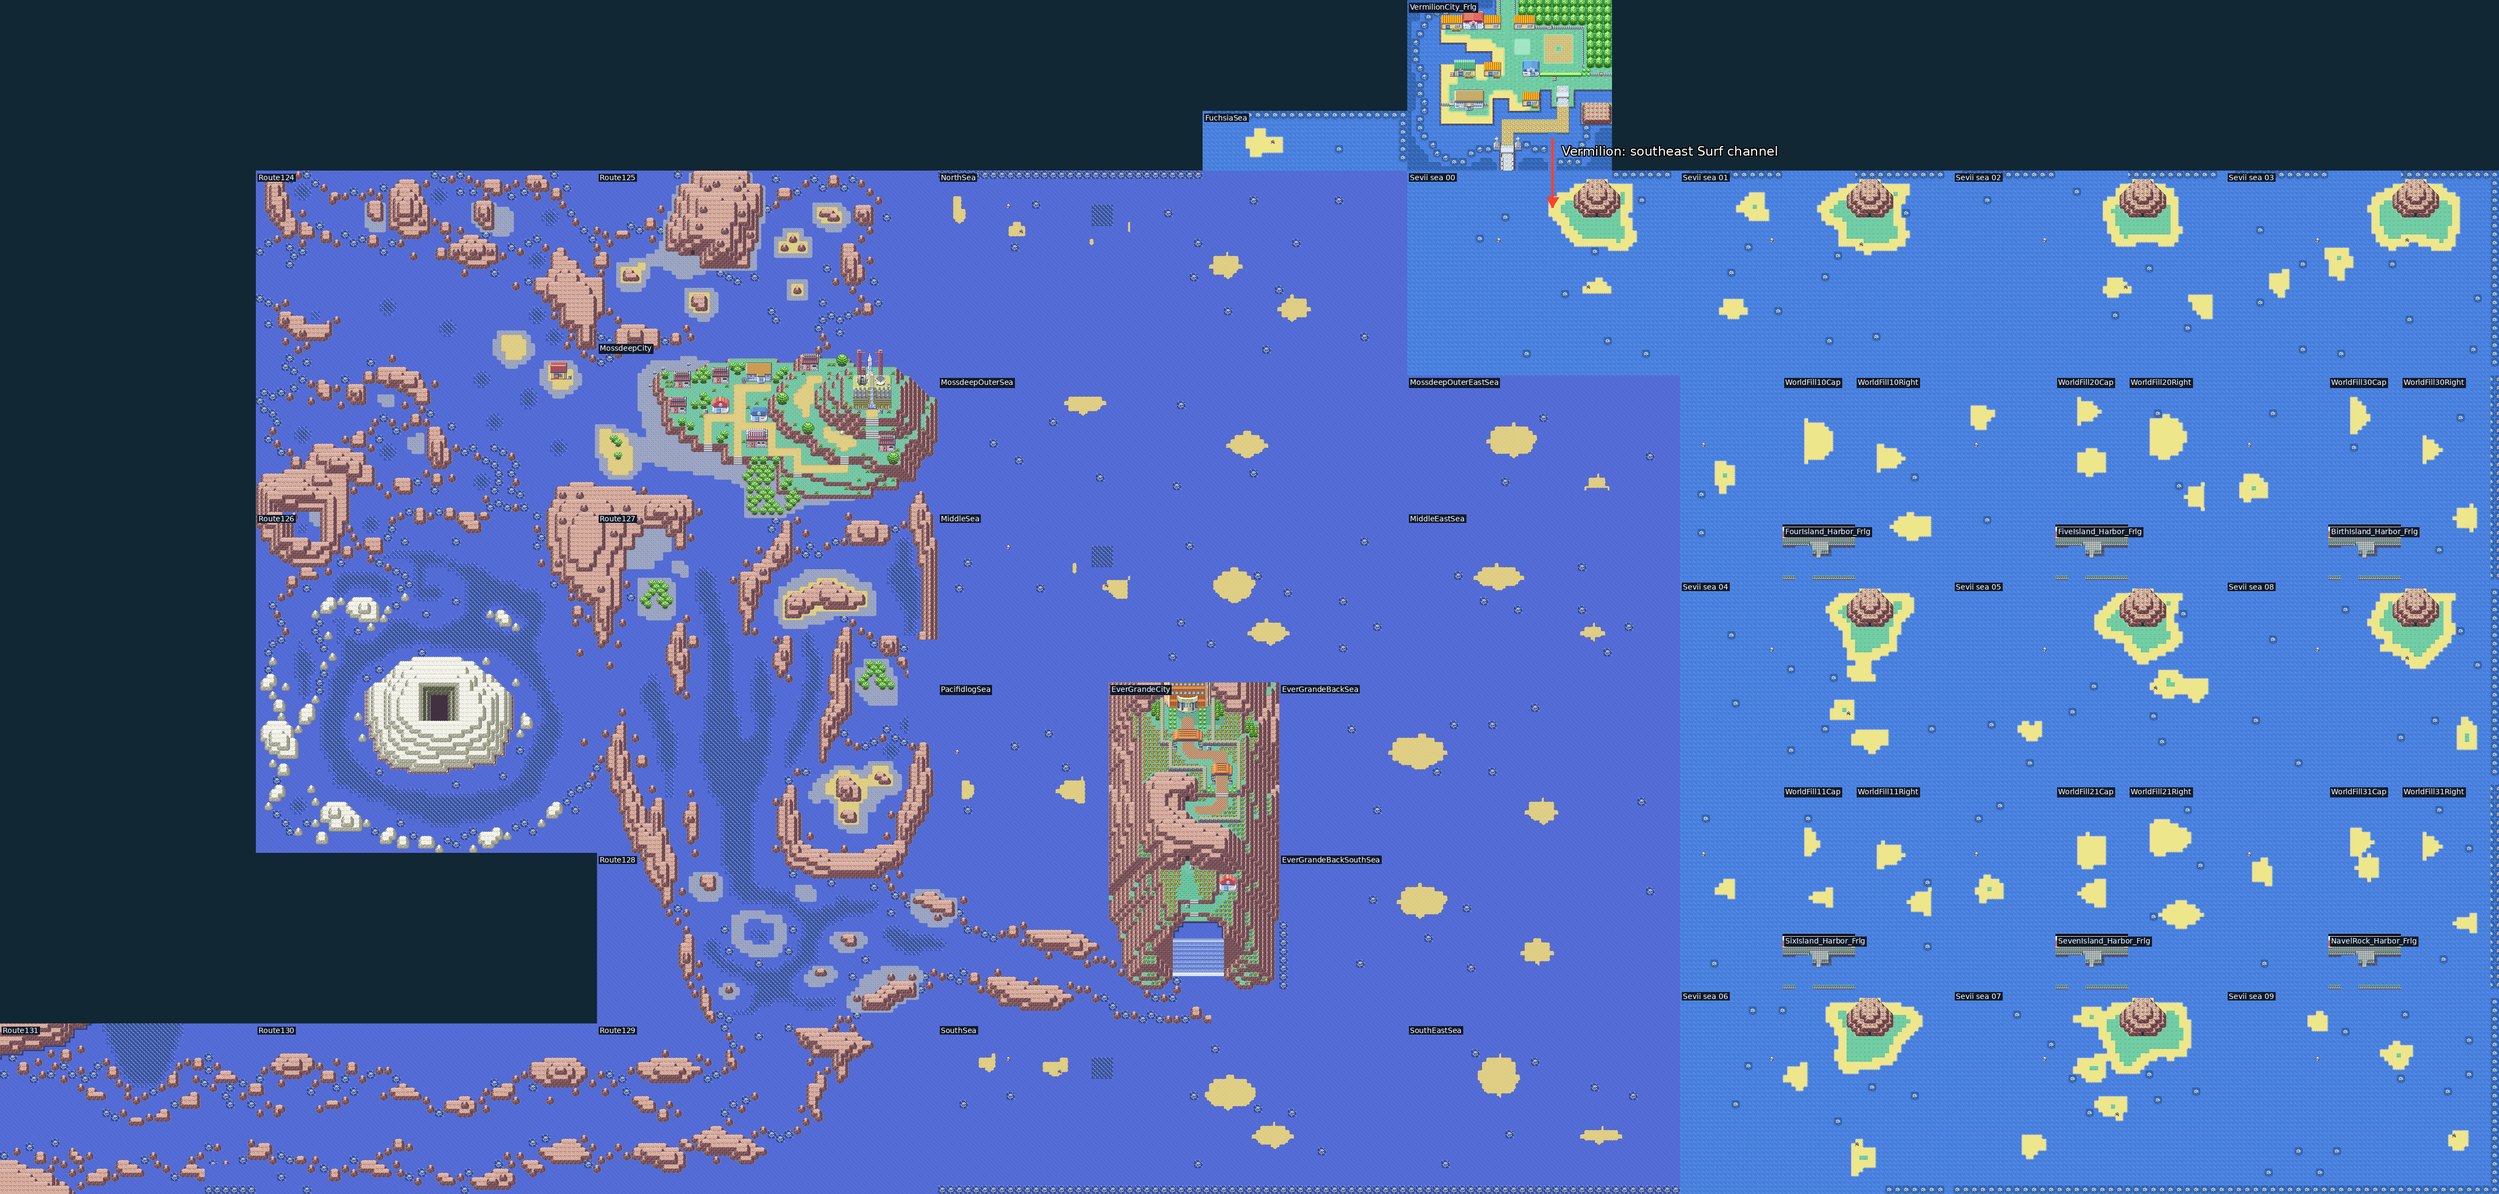
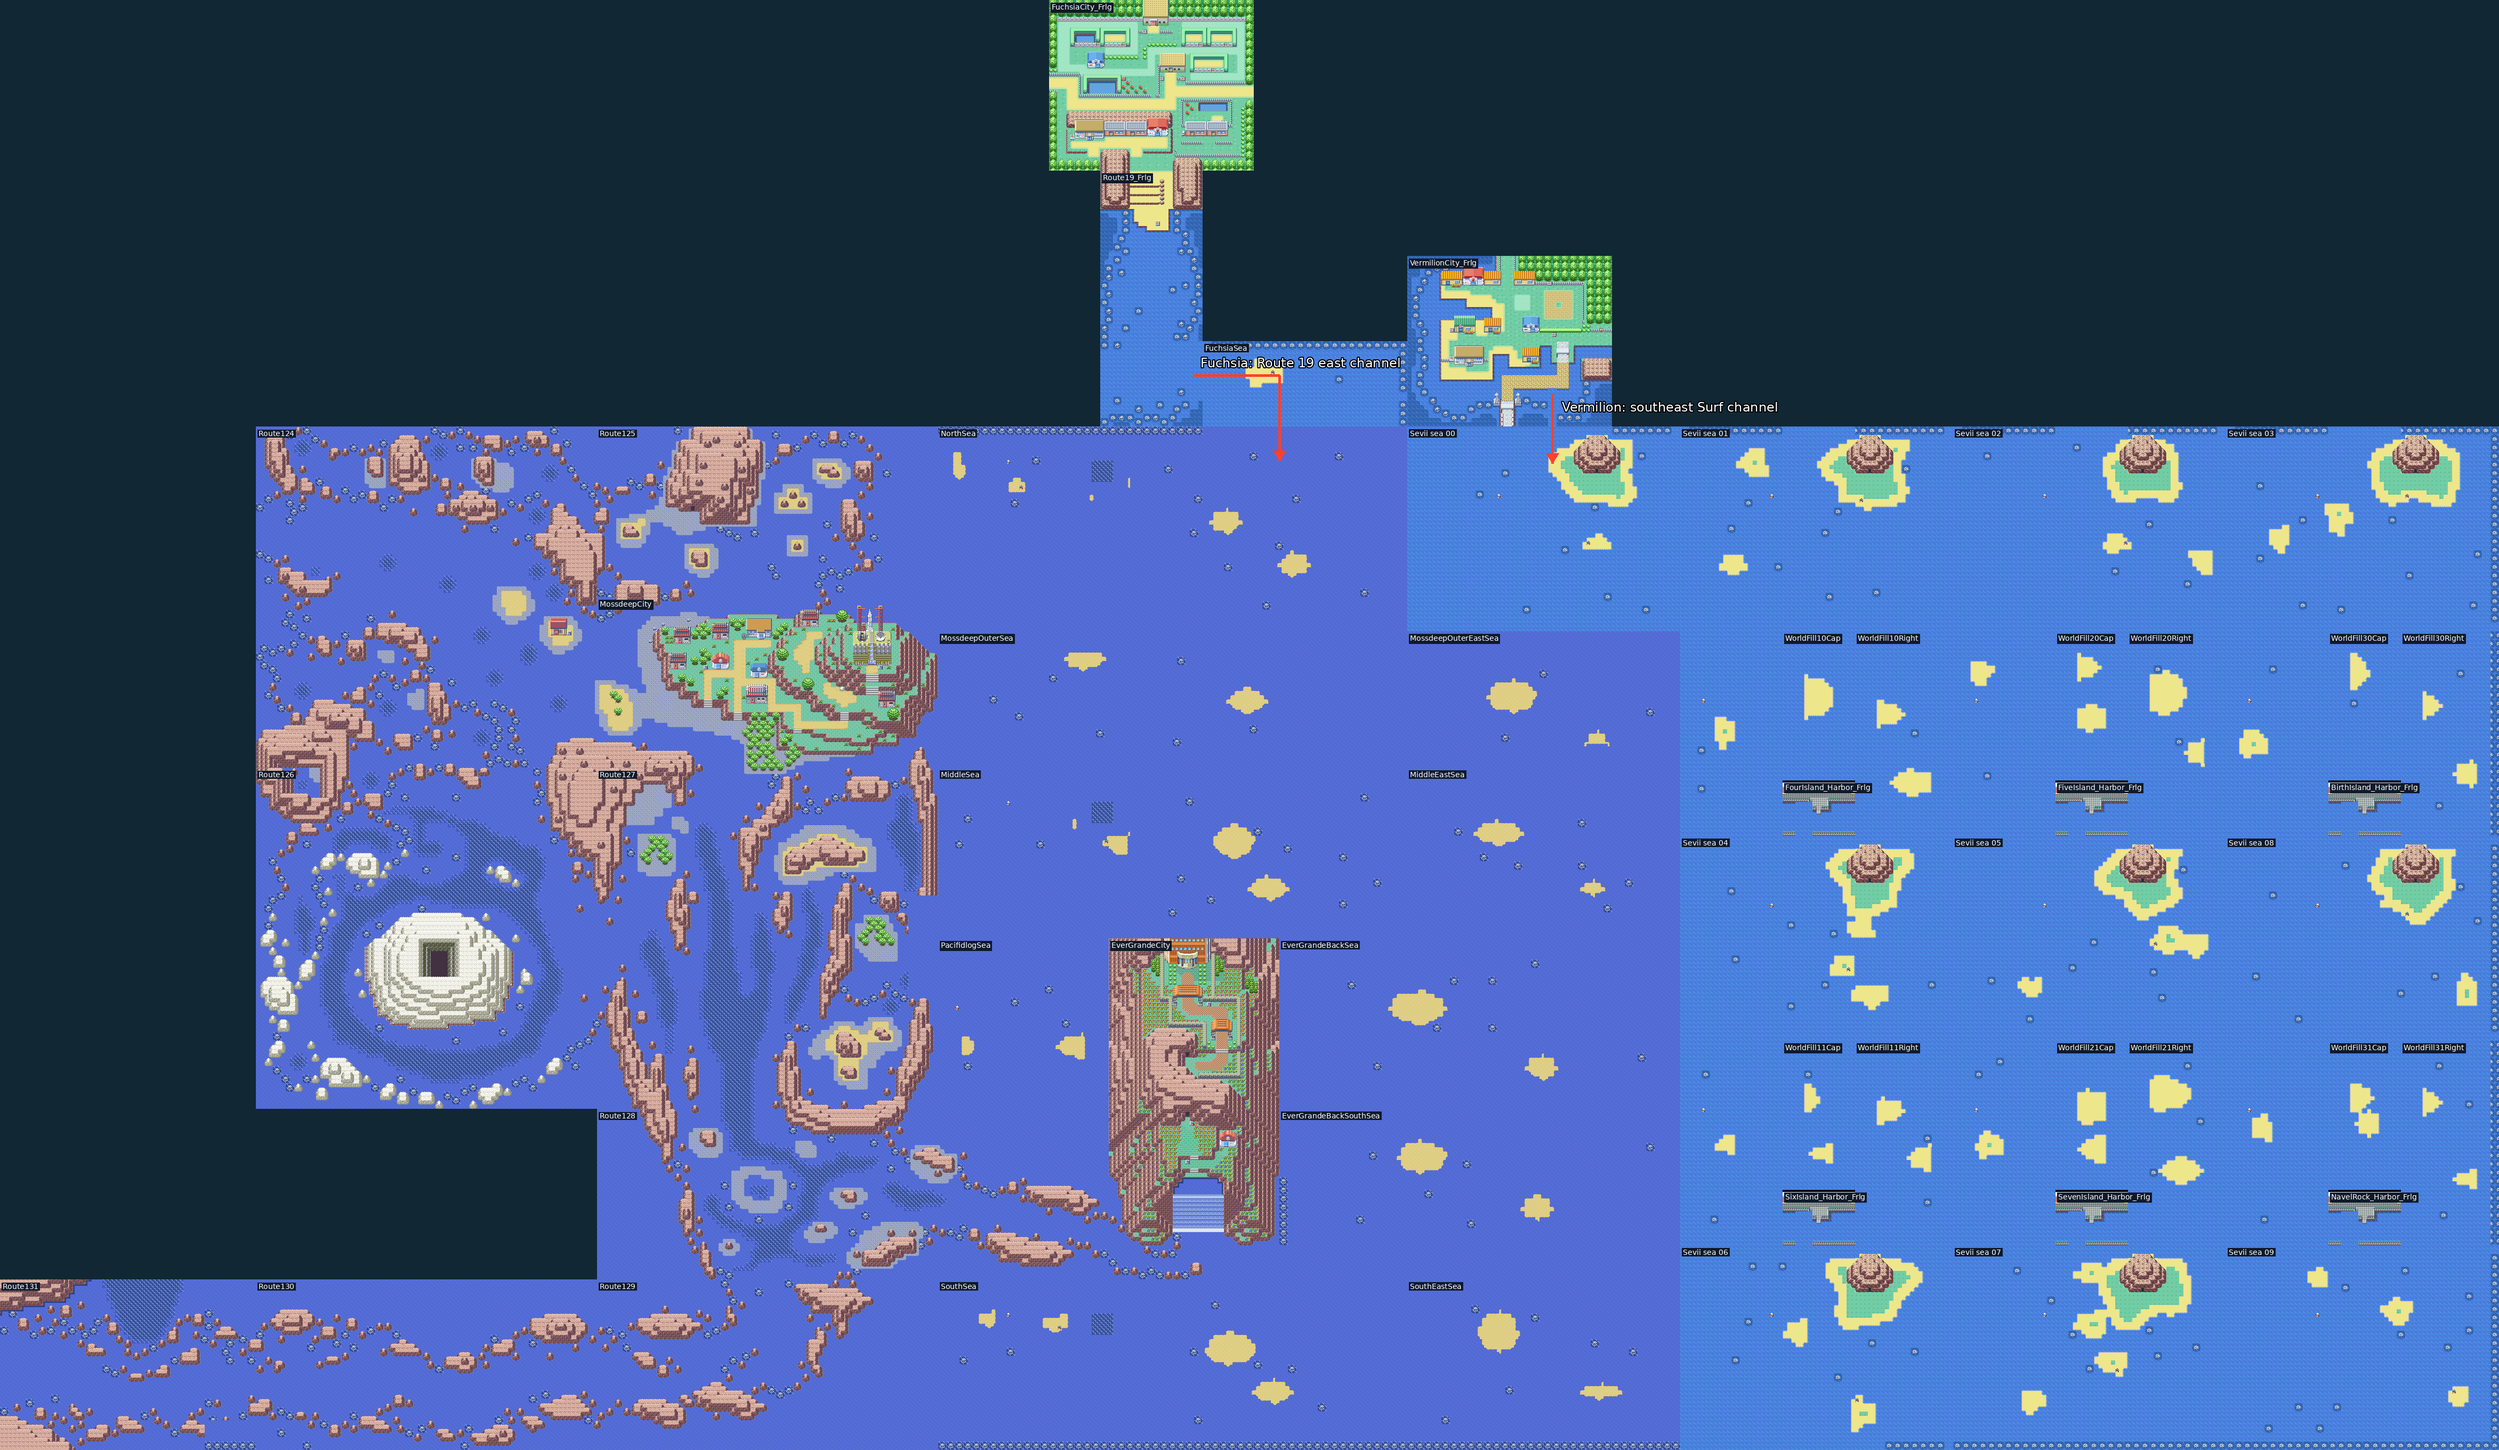
Remove the remaining reef fragment and align both Kanto coastal exits

diff --git a/tools/hoenn/prepare_ever_grande_entrance.py b/tools/hoenn/prepare_ever_grande_entrance.py
@@ -1,4 +1,4 @@
-"""Open the sea-level reef east of Ever Grande's original waterfall approach."""
+"""Open Ever Grande's eastern reef and align the Fuchsia coastal connector."""
 import argparse
 import hashlib
 import json
@@ -17,7 +17,8 @@ def prepare(source):
         return result
     preceding = json.loads((source / '.journey-eastern-sea-union').read_text())
     expected = preceding['prepared_sha256'] | preceding['preserved_native_sha256']
-    layouts = json.loads((source / 'data/layouts/layouts.json').read_text())['layouts']
+    layout_data = json.loads((source / 'data/layouts/layouts.json').read_text())
+    layouts = layout_data['layouts']
     layout = next(l for l in layouts if l['id'] == 'LAYOUT_EVER_GRANDE_CITY')
     path = layout['blockdata_filepath']
     original = (source / path).read_bytes()
@@ -25,7 +26,7 @@ def prepare(source):
     values = list(struct.unpack('<3200H', original))
     # Remove complete reef formations below the shore; no mountain, upper pool,
     # waterfall, event coordinate or League gate is part of these rectangles.
-    patches = [[24, 72, 32, 80], [24, 70, 28, 72]]
+    patches = [[24, 72, 32, 80], [24, 70, 28, 72], [22, 78, 24, 80]]
     changed = []
     for x0, y0, x1, y1 in patches:
         for y in range(y0, y1):
@@ -35,18 +36,34 @@ def prepare(source):
                     changed.append(dict(x=x, y=y, before=values[i], after=0x1170))
                     values[i] = 0x1170
     preserved = {}
-    for p in ['data/layouts/layouts.json', 'data/maps/EverGrandeCity/map.json', 'data/maps/EverGrandeCity/scripts.inc',
+    for p in ['data/maps/EverGrandeCity/map.json', 'data/maps/EverGrandeCity/scripts.inc',
               'src/journey_campaign_gates.c', 'src/journey_gym_scaling.c']:
         digest = hashlib.sha256((source / p).read_bytes()).hexdigest()
         assert digest == expected[p]
         preserved[p] = digest
     raw = struct.pack('<3200H', *values)
-    result = dict(layer=LAYER, original_sha256={path: expected[path]},
-                  prepared_sha256={path: hashlib.sha256(raw).hexdigest()},
+    outputs = {path: raw}
+    # Route19 extends six tiles below the previous 14-high connector. Complete
+    # that connector so both native cities fit above Hoenn without overlap.
+    f = next(l for l in layouts if l['id'] == 'LAYOUT_JOURNEYFUCHSIASEA')
+    fp = f['blockdata_filepath']
+    old = (source / fp).read_bytes()
+    assert hashlib.sha256(old).hexdigest() == expected[fp]
+    sea = list(struct.unpack('<' + 'H' * (48 * 14), old))
+    for y in range(14, 20):
+        sea.extend(0x112B if x < 46 else [0x510,0x511,0x518,0x519][(y % 2) * 2 + x % 2] for x in range(48))
+    f['height'] = 20
+    outputs[fp] = struct.pack('<' + 'H' * len(sea), *sea)
+    lp = 'data/layouts/layouts.json'
+    assert hashlib.sha256((source / lp).read_bytes()).hexdigest() == expected[lp]
+    outputs[lp] = (json.dumps(layout_data, indent=2) + '\n').encode()
+    result = dict(layer=LAYER, original_sha256={p: expected[p] for p in outputs},
+                  prepared_sha256={p: hashlib.sha256(v).hexdigest() for p,v in outputs.items()},
+                  rectangle_overrides=[dict(map='JourneyFuchsiaSea',x=142,y=-20,width=48,height=20)],
                   preserved_native_sha256=preserved, changed_tiles=changed,
                   patches=patches, waterfall_and_upper_pool_preserved=True,
                   map_events_and_league_gates_preserved=True)
-    (source / path).write_bytes(raw)
+    for p, v in outputs.items(): (source / p).write_bytes(v)
     marker.write_text(json.dumps(result, indent=2) + '\n')
     return result
 

diff --git a/tools/hoenn/test_ever_grande_entrance.py b/tools/hoenn/test_ever_grande_entrance.py
@@ -13,9 +13,10 @@ class EverGrandeEntrance(unittest.TestCase):
         p = read('preparation/preparation.json')
         r = read('preparation/reproduction.json')
         self.assertTrue(r['passed'] and r['deterministic_replay'] and r['idempotent'])
-        self.assertEqual(list(p['prepared_sha256']), ['data/layouts/EverGrandeCity/map.bin'])
-        self.assertEqual(len(p['changed_tiles']), 27)
-        self.assertTrue(all(t['after'] == 0x1170 and t['y'] >= 70 and 24 <= t['x'] < 32 for t in p['changed_tiles']))
+        self.assertEqual(len(p['prepared_sha256']), 3)
+        self.assertIn('data/layouts/EverGrandeCity/map.bin', p['prepared_sha256'])
+        self.assertEqual(len(p['changed_tiles']), 31)
+        self.assertTrue(all(t['after'] == 0x1170 and t['y'] >= 70 and 22 <= t['x'] < 32 for t in p['changed_tiles']))
         self.assertTrue(p['waterfall_and_upper_pool_preserved'] and p['map_events_and_league_gates_preserved'])
     def test_controller_roundtrip_reaches_waterfall_base_from_east(self):
         r = read('native/ever-grande-entrance.json')
@@ -23,8 +24,10 @@ class EverGrandeEntrance(unittest.TestCase):
         self.assertTrue(r['save_continue_at_waterfall_base'])
         self.assertEqual(r['rom_sha256'], read('preparation/reproduction.json')['rom_sha256'])
         self.assertIn({'map': 'EverGrandeCity', 'position': [20, 68]}, r['legs'])
+        self.assertIn({'map': 'VermilionCity_Frlg', 'position': [20, 20]}, r['legs'])
+        self.assertIn({'map': 'JourneyFuchsiaSea', 'position': [10, 10]}, r['legs'])
         self.assertTrue(any(t['source'][0] == 'JourneyEverGrandeBackSouthSea' and t['destination'][0] == 'EverGrandeCity' for t in r['transitions']))
-        self.assertEqual(r['legs'][-1], {'map': 'VermilionCity_Frlg', 'position': [20, 20]})
+        self.assertEqual(r['legs'][-1], {'map': 'FuchsiaCity_Frlg', 'position': [20, 20]})
         self.assertFalse(r['full_campaign_playthrough'])
     def test_actual_map_places_vermilion_directly_above_the_ocean(self):
         p = json.loads((ROOT / 'mods/hoenn/ever-grande-entrance-gallery/metadata.json').read_text())
@@ -35,6 +38,15 @@ class EverGrandeEntrance(unittest.TestCase):
         self.assertTrue(p['source_metatiles'] and p['includes_vermilion'])
         self.assertEqual(p['rom_sha256'], read('preparation/reproduction.json')['rom_sha256'])
         self.assertFalse(p['full_world_map'])
+        f, route, canal = rects['FuchsiaCity_Frlg'], rects['Route19_Frlg'], rects['JourneyFuchsiaSea']
+        self.assertEqual(f['y'] + f['height'], route['y'])
+        self.assertEqual(route['x'] + route['width'], canal['x'])
+        self.assertEqual(route['y'] + 40, canal['y'])
+        self.assertEqual(canal['y'] + canal['height'], 0)
+        for a in rects.values():
+            for b in rects.values():
+                if a['map'] >= b['map']: continue
+                self.assertTrue(min(a['x']+a['width'], b['x']+b['width']) <= max(a['x'], b['x']) or min(a['y']+a['height'], b['y']+b['height']) <= max(a['y'], b['y']), (a,b))
 
 if __name__ == '__main__':
     unittest.main()

diff --git a/tools/hoenn/render_eastern_union.py b/tools/hoenn/render_eastern_union.py
@@ -10,9 +10,15 @@ def render(source,output,include_vermilion=False):
  source=Path(source);output=Path(output);output.mkdir(parents=True,exist_ok=True)
  report=json.loads((source/'.journey-eastern-sea-union').read_text());r=MapRenderer(source)
  rects=list(report['rectangles'])
+ entrance=source/'.journey-ever-grande-entrance'
+ if entrance.exists():
+  overrides={r['map']:r for r in json.loads(entrance.read_text()).get('rectangle_overrides',[])}
+  rects=[overrides.get(r['map'],r) for r in rects]
  if include_vermilion:
   # Native south connection offset 0: city sits directly above WorldSea00.
   rects.append(dict(map='VermilionCity_Frlg',x=190,y=-40,width=48,height=40))
+  if entrance.exists():
+   rects.extend([dict(map='Route19_Frlg',x=118,y=-60,width=24,height=60),dict(map='FuchsiaCity_Frlg',x=106,y=-100,width=48,height=40)])
  xmin=min(m['x'] for m in rects);ymin=min(m['y'] for m in rects)
  xmax=max(m['x']+m['width'] for m in rects);ymax=max(m['y']+m['height'] for m in rects)
  # Empty background remains labelled outside this rendered eastern-ocean section.
@@ -32,6 +38,11 @@ def render(source,output,include_vermilion=False):
   draw.line([(x,y-45),(x,y+85)],fill=(255,65,45),width=5)
   draw.polygon([(x,y+85),(x-12,y+66),(x+12,y+66)],fill=(255,65,45))
   draw.text((x+18,y-35),'Vermilion: southeast Surf channel',font=ImageFont.truetype('/usr/share/fonts/truetype/dejavu/DejaVuSans.ttf',24),fill='white',stroke_width=2,stroke_fill='black')
+  if entrance.exists():
+   points=[((140-xmin)*scale,(-12-ymin)*scale),((160-xmin)*scale,(-12-ymin)*scale),((160-xmin)*scale,(8-ymin)*scale)]
+   draw.line(points,fill=(255,65,45),width=5)
+   x,y=points[-1];draw.polygon([(x,y),(x-12,y-19),(x+12,y-19)],fill=(255,65,45))
+   draw.text((points[0][0]+12,points[0][1]-38),'Fuchsia: Route 19 east channel',font=ImageFont.truetype('/usr/share/fonts/truetype/dejavu/DejaVuSans.ttf',24),fill='white',stroke_width=2,stroke_fill='black')
  annotated.save(output/'eastern-union-labelled.png')
  (output/'metadata.json').write_text(json.dumps(dict(rom_sha256=hashlib.sha256((source/'pokeemerald.gba').read_bytes()).hexdigest(),source_metatiles=True,tile_scale=scale,rectangles=rects,full_world_map=False,includes_vermilion=include_vermilion),indent=2)+'\n')
 

diff --git a/tools/hoenn/validate_ever_grande_entrance.py b/tools/hoenn/validate_ever_grande_entrance.py
@@ -1,22 +1,27 @@
-"""Controller-driven Vermilion-Ever Grande roundtrip with the eastern reef open."""
+"""Controller-driven Fuchsia-Vermilion-Ever Grande roundtrip with the reef open."""
 from pathlib import Path
 import hashlib
 import json
 
 ROOT = Path(__file__).resolve().parents[2]
 prefix = (ROOT / 'tools/hoenn/validate_eastern_union.py').read_text().split('seams=[];cliffs=[]')[0]
-prefix = prefix.replace("names=[r['map'] for r in report['rectangles']]", "names=[r['map'] for r in report['rectangles']]+['VermilionCity_Frlg']")
+prefix = prefix.replace("names=[r['map'] for r in report['rectangles']]", "names=[r['map'] for r in report['rectangles']]+['VermilionCity_Frlg','FuchsiaCity_Frlg','Route19_Frlg']")
 exec(compile(prefix, str(ROOT / 'tools/hoenn/validate_eastern_union.py'), 'exec'))
 walk_prefix = 'ever-entrance'
-start = ('VermilionCity_Frlg', 20, 20)
+start = ('FuchsiaCity_Frlg', 20, 20)
 warp(*start); native('SetPlayerAvatarTransitionFlags', 1); step(30)
 legs = []
 for goal in [
+ ('Route19_Frlg',18,48), ('JourneyFuchsiaSea',10,10),
+ ('JourneyHoennNorthSea',80,8), ('VermilionCity_Frlg',20,20),
  ('VermilionCity_Frlg',34,38), ('JourneyWorldSea00',10,20),
  ('JourneyHoennNorthSea',40,22), ('JourneyEverGrandeBackSouthSea',8,34),
  ('EverGrandeCity',34,74), ('EverGrandeCity',20,72), ('EverGrandeCity',20,68),
  ('EverGrandeCity',34,74), ('JourneyEverGrandeBackSouthSea',8,34),
- ('JourneyWorldSea00',10,20), start]:
+ ('JourneyWorldSea00',10,20), ('VermilionCity_Frlg',20,20),
+ ('VermilionCity_Frlg',34,38), ('JourneyWorldSea00',10,20),
+ ('JourneyHoennNorthSea',80,8), ('JourneyFuchsiaSea',10,10),
+ ('Route19_Frlg',18,48), start]:
     walk(goal)
     assert location() == map_id(goal[0]) and position() == goal[1:]
     legs.append(dict(map=goal[0], position=list(position())))
@@ -38,4 +43,4 @@ lib.stop()
  save_continue_at_waterfall_base=True, no_midroute_warps=True,
  defeated_trainer_and_party_fixtures=True, wild_encounters_disabled=True,
  full_campaign_playthrough=False),indent=2)+'\n')
-print('Vermilion to eastern Ever Grande entrance and back passed',flush=True)
+print('Fuchsia and Vermilion to eastern Ever Grande entrance and back passed',flush=True)

diff --git a/mods/hoenn/EVER-GRANDE-ENTRANCE.md b/mods/hoenn/EVER-GRANDE-ENTRANCE.md
@@ -3,17 +3,22 @@
 A faixa de mar a leste de Hoenn chega ao oceano das Sevii. A ligação com
 Vermilion é **pela borda sul da cidade, no canal de Surf da costa sudeste**:
 Vermilion `(34, 38)` → borda sul `(34, 39)` → `JourneyWorldSea00 (34, 0)`.
-O cais original e seus eventos permanecem. A seta vermelha indica esse canal.
+O cais original e seus eventos permanecem. Uma seta vermelha indica esse canal.
+
+Fuchsia chega pela Rota 19: sai pelo sul da cidade, segue para leste no mar
+da Rota 19 e entra no canal `JourneyFuchsiaSea`; dali desce ao mar norte
+de Hoenn. A segunda seta marca essa passagem. A extensão de seis tiles
+do canal alinha a borda inteira da Rota 19, sem sobrepor o mar de Hoenn.
 
 ![Traçado amplo, incluindo Vermilion](ever-grande-entrance-gallery/eastern-union-labelled.png)
 
 Este recorte usa os tiles reais e as coordenadas das conexões do jogo.
-Inclui Vermilion, o mar leste de Hoenn e as faixas marítimas das Sevii;
+Inclui Fuchsia, a Rota 19, Vermilion, o mar leste de Hoenn e as faixas marítimas das Sevii;
 ainda não é o mapa completo de Kanto nem a nova tela do PokéNav.
 
 ## Abertura do recife
 
-Foram retirados 27 tiles de rochas no mar abaixo da costa, na lateral leste
+Foram retirados 31 tiles de rochas no mar abaixo da costa, na lateral leste
 da entrada original de Ever Grande. O canal permite navegar entre a base da
 cachoeira e o mar atrás da ilha. A cachoeira, a piscina superior, as montanhas,
 os eventos e a exigência de 16 insígnias para a Liga permanecem.
@@ -27,7 +32,8 @@ Depois:
 ![Canal aberto](ever-grande-entrance-gallery/entrance-after.png)
 
 Camada `ever-grande-entrance`, aplicada após `eastern-sea-union`.
-A preparação modifica apenas `data/layouts/EverGrandeCity/map.bin`;
+A preparação modifica o recife de Ever Grande e amplia o canal de Fuchsia de 14 para
+20 tiles de altura, preservando os eventos;
 reprodução determinística e idempotência registradas em
 [ever-grande-entrance-validation/preparation](ever-grande-entrance-validation/preparation).
 
@@ -38,13 +44,14 @@ python3 tools/hoenn/validate_ever_grande_entrance.py --source <fonte> --library 
 python3 tools/hoenn/render_eastern_union.py --source <fonte> --output <galeria> --include-vermilion
 ```
 
[2 lines of base64/hex data omitted]
 
 A validação de viagem usa equipe, posição inicial, treinadores já derrotados
 e encontros selvagens desativados como fixtures. Não representa duas campanhas
 completas nem valida o balanceamento. Não há publicação da ROM ou do player.
 
-Viagem nativa de ida e volta concluída: Vermilion → mar das Sevii → costa
-leste de Hoenn → entrada leste de Ever Grande → base da cachoeira → Vermilion.
-Foram registradas 15 mudanças de trecho e um save/Continue junto à cachoeira.
+Viagem nativa concluída, sem warps intermediários: Fuchsia → Rota 19 →
+canal leste → mar norte de Hoenn → Vermilion → mar das Sevii → entrada
+leste de Ever Grande → base da cachoeira → Vermilion → Fuchsia.
+Foram registradas 27 mudanças de trecho e um save/Continue junto à cachoeira.
 253 testes de Hoenn e 12 de rotas marítimas passaram.
